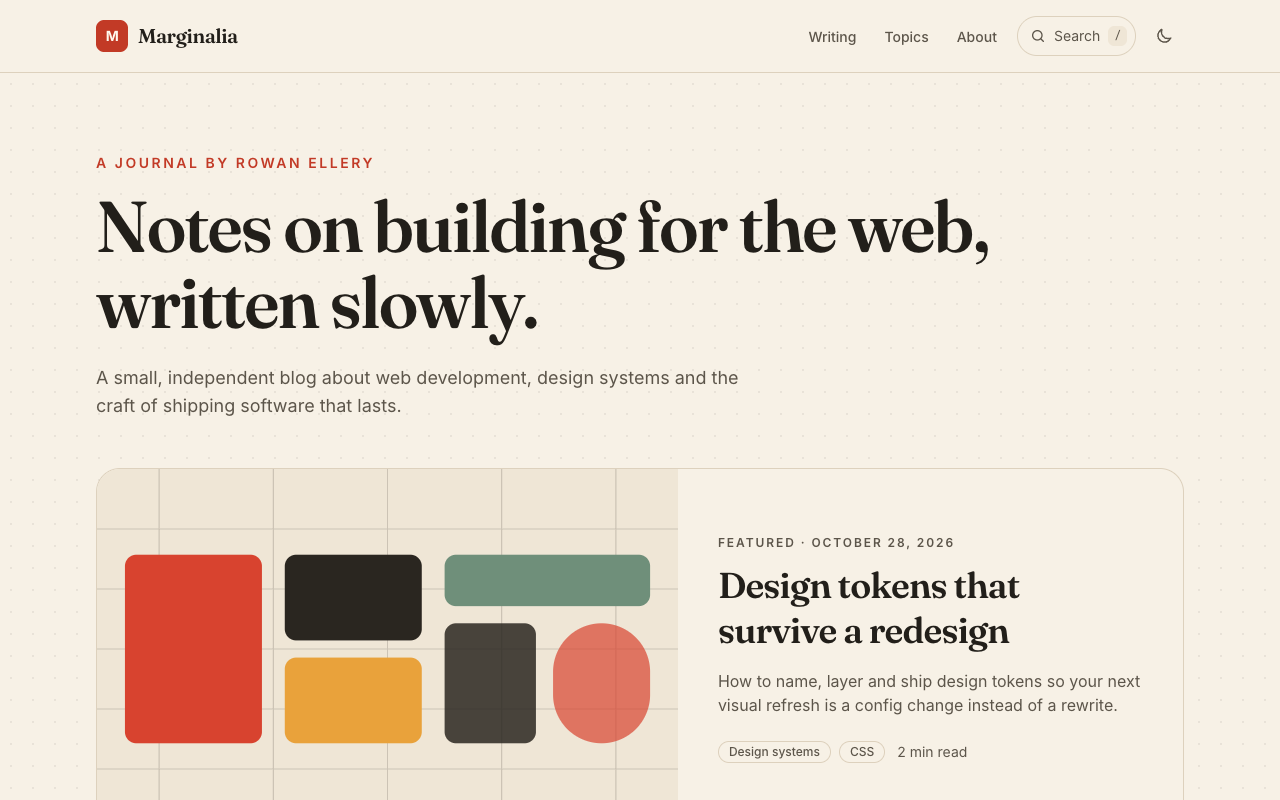
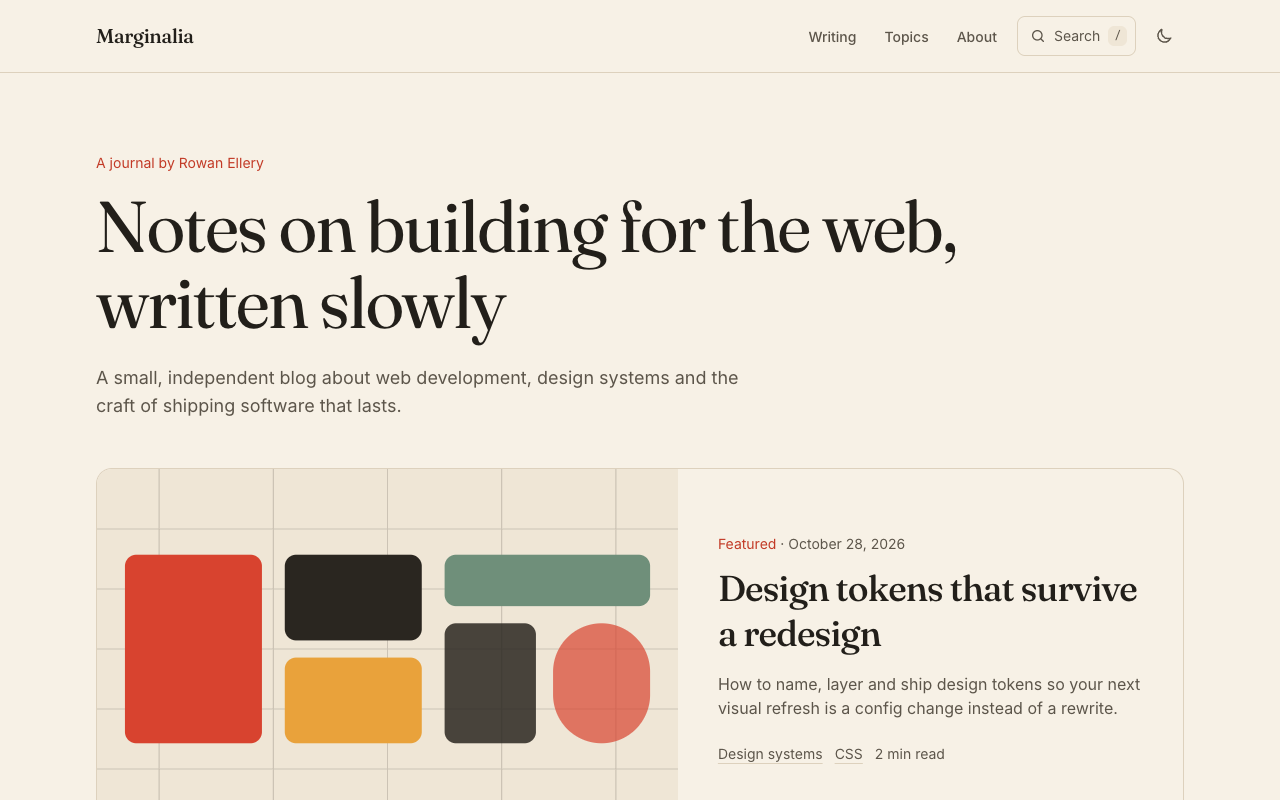
Unslop pass: no grain or pills, lighter headings, sentence case labels, tags as quiet links, left-set post header

diff --git a/app/page.tsx b/app/page.tsx
@@ -13,11 +13,11 @@ export default function Home() {
   const tags = getAllTags();
 
   return (
-    <div className="grain">
+    <div>
       <div className="mx-auto max-w-6xl px-5 sm:px-8">
         <section className="pb-12 pt-14 sm:pt-20">
-          <p className="text-sm font-semibold uppercase tracking-[0.18em] text-accent dark:text-ember">A journal by {site.author.name}</p>
-          <h1 className="mt-4 max-w-4xl font-display text-[2.6rem] font-semibold leading-[1.05] tracking-tight sm:text-6xl lg:text-7xl">
+          <p className="text-sm text-accent dark:text-ember">A journal by {site.author.name}</p>
+          <h1 className="mt-4 max-w-4xl font-display text-[2.6rem] font-normal leading-[1.05] tracking-[-0.025em] sm:text-6xl lg:text-7xl">
             {site.tagline}
           </h1>
           <p className="mt-6 max-w-2xl text-lg text-ink-soft dark:text-moon-soft">{site.description}</p>
@@ -28,7 +28,7 @@ export default function Home() {
             <h2 id="featured-title" className="sr-only">
               Featured post
             </h2>
-            <article className="group grid overflow-hidden rounded-3xl border border-rule bg-paper shadow-[0_1px_0_rgba(0,0,0,0.04)] md:grid-cols-[1.15fr_1fr] dark:border-night-rule dark:bg-night-2">
+            <article className="group grid overflow-hidden rounded-2xl border border-rule bg-paper shadow-[0_1px_0_rgba(0,0,0,0.04)] md:grid-cols-[1.15fr_1fr] dark:border-night-rule dark:bg-night-2">
               {featured.cover && (
                 <Link href={`/posts/${featured.slug}/`} className="relative block aspect-[1200/630] overflow-hidden md:aspect-auto md:min-h-[360px]" tabIndex={-1}>
                   <Image
@@ -37,25 +37,25 @@ export default function Home() {
                     fill
                     priority
                     sizes="(min-width: 768px) 55vw, 100vw"
-                    className="object-cover transition duration-500 group-hover:scale-[1.02]"
+                    className="object-cover"
                   />
                 </Link>
               )}
               <div className="flex flex-col justify-center p-7 sm:p-10">
-                <p className="text-xs font-semibold uppercase tracking-[0.16em] text-ink-soft dark:text-moon-soft">
-                  Featured &middot; <time dateTime={featured.date}>{formatDate(featured.date)}</time>
+                <p className="text-sm text-ink-soft dark:text-moon-soft">
+                  <span className="text-accent dark:text-ember">Featured</span> &middot; <time dateTime={featured.date}>{formatDate(featured.date)}</time>
                 </p>
-                <h3 className="mt-3 font-display text-3xl font-semibold leading-tight tracking-tight sm:text-4xl">
+                <h3 className="mt-3 font-display text-3xl font-medium leading-tight tracking-tight sm:text-4xl">
                   <Link href={`/posts/${featured.slug}/`} className="hover:text-accent dark:hover:text-ember">
                     {featured.title}
                   </Link>
                 </h3>
                 <p className="mt-4 text-ink-soft dark:text-moon-soft">{featured.description}</p>
-                <div className="mt-6 flex flex-wrap items-center gap-2">
+                <div className="mt-6 flex flex-wrap items-center gap-x-3 gap-y-1">
                   {featured.tags.map((t) => (
                     <Tag key={t} name={t} />
                   ))}
-                  <span className="ml-1 text-sm text-ink-soft dark:text-moon-soft">{featured.readingMinutes} min read</span>
+                  <span className="text-sm text-ink-soft dark:text-moon-soft">{featured.readingMinutes} min read</span>
                 </div>
               </div>
             </article>
@@ -64,17 +64,17 @@ export default function Home() {
 
         <div className="grid gap-14 lg:grid-cols-[1fr_260px]">
           <section aria-labelledby="recent-title">
-            <h2 id="recent-title" className="mb-6 font-display text-3xl font-semibold tracking-tight">
+            <h2 id="recent-title" className="mb-6 font-display text-3xl font-medium tracking-tight">
               Recent writing
             </h2>
             <PostList posts={recent} />
           </section>
           <aside className="space-y-10">
             <section aria-labelledby="topics-title">
-              <h2 id="topics-title" className="text-sm font-semibold uppercase tracking-[0.16em] text-ink-soft dark:text-moon-soft">
+              <h2 id="topics-title" className="text-sm text-ink-soft dark:text-moon-soft">
                 Topics
               </h2>
-              <div className="mt-4 flex flex-wrap gap-2">
+              <div className="mt-3 flex flex-wrap gap-x-3 gap-y-1">
                 {tags.map((t) => (
                   <Tag key={t.slug} name={t.name} />
                 ))}
@@ -85,9 +85,9 @@ export default function Home() {
                 About the author
               </h2>
               <Image src={site.author.avatar} alt={`Illustration representing ${site.author.name}`} width={56} height={56} className="rounded-full" />
-              <p className="mt-3 font-display text-lg font-semibold">{site.author.name}</p>
+              <p className="mt-3 font-display text-lg font-medium">{site.author.name}</p>
               <p className="text-sm text-ink-soft dark:text-moon-soft">{site.author.role}</p>
-              <Link href="/about/" className="mt-3 inline-block text-sm font-semibold text-accent dark:text-ember">
+              <Link href="/about/" className="mt-3 inline-block text-sm font-medium text-accent dark:text-ember">
                 More about me
               </Link>
             </section>

diff --git a/app/posts/[slug]/page.tsx b/app/posts/[slug]/page.tsx
@@ -64,13 +64,13 @@ export default async function PostPage({ params }: Props) {
   return (
     <article className="mx-auto max-w-6xl px-5 sm:px-8">
       <script type="application/ld+json" dangerouslySetInnerHTML={{ __html: JSON.stringify(jsonLd) }} />
-      <header className="mx-auto max-w-3xl pb-10 pt-14 text-center sm:pt-20">
+      <header className="mx-auto max-w-[68ch] pb-10 pt-14 text-lg sm:pt-20">
         <p className="text-sm text-ink-soft dark:text-moon-soft">
           <time dateTime={post.date}>{formatDate(post.date)}</time> &middot; {post.readingMinutes} min read
         </p>
-        <h1 className="mt-4 font-display text-4xl font-semibold leading-[1.1] tracking-tight sm:text-5xl lg:text-6xl">{post.title}</h1>
-        <p className="mx-auto mt-5 max-w-2xl text-lg text-ink-soft dark:text-moon-soft">{post.description}</p>
-        <div className="mt-6 flex flex-wrap justify-center gap-2">
+        <h1 className="mt-4 font-display text-4xl font-medium leading-[1.1] tracking-tight sm:text-5xl lg:text-6xl">{post.title}</h1>
+        <p className="mt-5 max-w-2xl text-lg text-ink-soft dark:text-moon-soft">{post.description}</p>
+        <div className="mt-6 flex flex-wrap gap-x-3 gap-y-1">
           {post.tags.map((t) => (
             <Tag key={t} name={t} />
           ))}
@@ -78,7 +78,7 @@ export default async function PostPage({ params }: Props) {
       </header>
 
       {post.cover && (
-        <div className="relative mx-auto aspect-[1200/630] max-w-5xl overflow-hidden rounded-3xl border border-rule dark:border-night-rule">
+        <div className="relative mx-auto aspect-[1200/630] max-w-5xl overflow-hidden rounded-2xl border border-rule dark:border-night-rule">
           <Image src={post.cover} alt={post.coverAlt ?? ""} fill priority sizes="(min-width: 1024px) 1024px, 100vw" className="object-cover" />
         </div>
       )}
@@ -89,17 +89,17 @@ export default async function PostPage({ params }: Props) {
         <AuthorCard />
         <nav aria-label="More posts" className="grid gap-4 sm:grid-cols-2">
           {older ? (
-            <Link href={`/posts/${older.slug}/`} className="rounded-2xl border border-rule p-5 transition hover:border-accent dark:border-night-rule dark:hover:border-ember">
-              <span className="text-xs font-semibold uppercase tracking-[0.16em] text-ink-soft dark:text-moon-soft">Older</span>
-              <span className="mt-1 block font-display text-lg font-semibold">{older.title}</span>
+            <Link href={`/posts/${older.slug}/`} className="rounded-2xl border border-rule p-5 transition-colors duration-150 hover:border-accent dark:border-night-rule dark:hover:border-ember">
+              <span className="text-xs font-medium text-ink-soft dark:text-moon-soft">Older</span>
+              <span className="mt-1 block font-display text-lg font-medium">{older.title}</span>
             </Link>
           ) : (
             <span />
           )}
           {newer && (
-            <Link href={`/posts/${newer.slug}/`} className="rounded-2xl border border-rule p-5 text-right transition hover:border-accent dark:border-night-rule dark:hover:border-ember">
-              <span className="text-xs font-semibold uppercase tracking-[0.16em] text-ink-soft dark:text-moon-soft">Newer</span>
-              <span className="mt-1 block font-display text-lg font-semibold">{newer.title}</span>
+            <Link href={`/posts/${newer.slug}/`} className="rounded-2xl border border-rule p-5 text-right transition-colors duration-150 hover:border-accent dark:border-night-rule dark:hover:border-ember">
+              <span className="text-xs font-medium text-ink-soft dark:text-moon-soft">Newer</span>
+              <span className="mt-1 block font-display text-lg font-medium">{newer.title}</span>
             </Link>
           )}
         </nav>

diff --git a/components/Newsletter.tsx b/components/Newsletter.tsx
@@ -26,10 +26,10 @@ export function Newsletter() {
   }
 
   return (
-    <section aria-labelledby="newsletter-title" className="rounded-3xl bg-ink px-6 py-10 text-paper sm:px-10 dark:bg-night-2 dark:text-moon">
+    <section aria-labelledby="newsletter-title" className="rounded-2xl bg-ink px-6 py-10 text-paper sm:px-10 dark:bg-night-2 dark:text-moon">
       <div className="grid gap-6 md:grid-cols-2 md:items-center">
         <div>
-          <h2 id="newsletter-title" className="font-display text-3xl font-semibold tracking-tight">
+          <h2 id="newsletter-title" className="font-display text-3xl font-medium tracking-tight">
             {site.newsletter.title}
           </h2>
           <p className="mt-2 text-paper/75 dark:text-moon-soft">{site.newsletter.text}</p>
@@ -50,12 +50,12 @@ export function Newsletter() {
                 type="email"
                 required
                 placeholder="you@example.com"
-                className="h-12 min-w-0 flex-1 rounded-full bg-paper px-5 text-ink placeholder:text-ink-soft/70"
+                className="h-12 min-w-0 flex-1 rounded-lg bg-paper px-5 text-ink placeholder:text-ink-soft/70"
               />
               <button
                 type="submit"
                 disabled={state === "sending"}
-                className="h-12 rounded-full bg-accent px-6 font-semibold text-accent-ink transition hover:brightness-110 disabled:opacity-60"
+                className="h-12 rounded-lg bg-accent px-6 font-medium text-accent-ink transition-colors duration-150 hover:brightness-110 disabled:opacity-60"
               >
                 {state === "sending" ? "Subscribing" : "Subscribe"}
               </button>
@@ -71,7 +71,7 @@ export function Newsletter() {
             <p>The sign-up form isn&apos;t connected yet. Until it is, you can ask to be added by email.</p>
             <a
               href={`mailto:${site.author.email}?subject=${encodeURIComponent("Add me to the newsletter")}`}
-              className="mt-4 inline-flex h-11 items-center rounded-full bg-accent px-5 font-semibold text-accent-ink transition hover:brightness-110"
+              className="mt-4 inline-flex h-11 items-center rounded-lg bg-accent px-5 font-medium text-accent-ink transition-colors duration-150 hover:brightness-110"
             >
               Email {site.author.name.split(" ")[0]}
             </a>

diff --git a/app/og/[slug]/route.tsx b/app/og/[slug]/route.tsx
@@ -20,8 +20,8 @@ export async function GET(_req: Request, { params }: { params: Promise<{ slug: s
     return new ImageResponse(
       (
         <div style={{ width: "100%", height: "100%", display: "flex", flexDirection: "column", justifyContent: "center", background: "#221f1a", padding: 80, color: "#f7f1e6" }}>
-          <div style={{ fontSize: 34, color: "#f0745d", fontWeight: 700 }}>{site.name}</div>
-          <div style={{ marginTop: 24, fontSize: 76, fontWeight: 700, lineHeight: 1.05, letterSpacing: -1 }}>{site.tagline}</div>
+          <div style={{ fontSize: 34, color: "#f0745d", fontWeight: 500 }}>{site.name}</div>
+          <div style={{ marginTop: 24, fontSize: 76, fontWeight: 500, lineHeight: 1.05, letterSpacing: -1 }}>{site.tagline}</div>
         </div>
       ),
       size,
@@ -31,13 +31,13 @@ export async function GET(_req: Request, { params }: { params: Promise<{ slug: s
   return new ImageResponse(
     (
       <div style={{ width: "100%", height: "100%", display: "flex", flexDirection: "column", justifyContent: "space-between", background: "#f7f1e6", padding: 72, color: "#221f1a" }}>
-        <div style={{ display: "flex", alignItems: "center", gap: 16, fontSize: 30, fontWeight: 700 }}>
+        <div style={{ display: "flex", alignItems: "center", gap: 16, fontSize: 30, fontWeight: 500 }}>
           <div style={{ width: 52, height: 52, borderRadius: 12, background: "#c23a26", color: "#fff8ee", display: "flex", alignItems: "center", justifyContent: "center" }}>
             {site.name.charAt(0)}
           </div>
           {site.name}
         </div>
-        <div style={{ fontSize: 68, fontWeight: 700, lineHeight: 1.08, letterSpacing: -1, maxWidth: 1000 }}>{post.title}</div>
+        <div style={{ fontSize: 68, fontWeight: 500, lineHeight: 1.08, letterSpacing: -1, maxWidth: 1000 }}>{post.title}</div>
         <div style={{ display: "flex", justifyContent: "space-between", fontSize: 26, color: "#5c554a" }}>
           <span>{site.author.name}</span>
           <span>{`${formatDate(post.date)}, ${post.readingMinutes} min read`}</span>

diff --git a/components/Header.tsx b/components/Header.tsx
@@ -7,10 +7,7 @@ export function Header({ searchItems }: { searchItems: SearchItem[] }) {
   return (
     <header className="border-b border-rule dark:border-night-rule">
       <div className="mx-auto flex max-w-6xl items-center justify-between gap-3 px-5 py-4 sm:px-8">
-        <Link href="/" className="flex items-center gap-2.5 font-display text-xl font-semibold tracking-tight">
-          <span className="grid size-8 place-items-center rounded-lg bg-accent font-sans text-sm font-bold text-accent-ink" aria-hidden="true">
-            {site.name.charAt(0)}
-          </span>
+        <Link href="/" className="font-display text-xl font-medium tracking-tight">
           {site.name}
         </Link>
         <nav aria-label="Main" className="flex items-center gap-1 sm:gap-2">
@@ -19,7 +16,7 @@ export function Header({ searchItems }: { searchItems: SearchItem[] }) {
               <li key={item.href}>
                 <Link
                   href={item.href}
-                  className="rounded-full px-3 py-2 text-sm font-medium text-ink-soft transition hover:text-ink dark:text-moon-soft dark:hover:text-moon"
+                  className="rounded-lg px-3 py-2 text-sm font-medium text-ink-soft transition-colors duration-150 hover:text-ink dark:text-moon-soft dark:hover:text-moon"
                 >
                   {item.label}
                 </Link>
@@ -34,7 +31,7 @@ export function Header({ searchItems }: { searchItems: SearchItem[] }) {
         <ul className="flex justify-center gap-1 px-4 py-1.5">
           {site.nav.map((item) => (
             <li key={item.href}>
-              <Link href={item.href} className="block rounded-full px-3 py-1.5 text-sm font-medium text-ink-soft dark:text-moon-soft">
+              <Link href={item.href} className="block rounded-lg px-3 py-1.5 text-sm font-medium text-ink-soft dark:text-moon-soft">
                 {item.label}
               </Link>
             </li>

diff --git a/components/Search.tsx b/components/Search.tsx
@@ -54,7 +54,7 @@ export function Search({ items }: { items: SearchItem[] }) {
       <button
         type="button"
         onClick={open}
-        className="flex h-10 items-center gap-2 rounded-full border border-rule px-3 text-sm text-ink-soft transition hover:border-ink-soft hover:text-ink sm:pr-2 dark:border-night-rule dark:text-moon-soft dark:hover:text-moon"
+        className="flex h-10 items-center gap-2 rounded-lg border border-rule px-3 text-sm text-ink-soft transition-colors duration-150 hover:border-ink-soft hover:text-ink sm:pr-2 dark:border-night-rule dark:text-moon-soft dark:hover:text-moon"
         aria-label="Search posts"
       >
         <svg className="size-4" viewBox="0 0 24 24" fill="none" stroke="currentColor" strokeWidth="2" aria-hidden="true">
@@ -102,9 +102,9 @@ export function Search({ items }: { items: SearchItem[] }) {
               <Link
                 href={`/posts/${item.slug}/`}
                 onClick={close}
-                className="block rounded-xl px-3 py-3 transition hover:bg-paper-2 focus-visible:bg-paper-2 dark:hover:bg-night dark:focus-visible:bg-night"
+                className="block rounded-xl px-3 py-3 transition-colors duration-150 hover:bg-paper-2 focus-visible:bg-paper-2 dark:hover:bg-night dark:focus-visible:bg-night"
               >
-                <span className="block font-display text-lg font-semibold leading-snug">{item.title}</span>
+                <span className="block font-display text-lg font-medium leading-snug">{item.title}</span>
                 <span className="mt-1 block text-xs text-ink-soft dark:text-moon-soft">
                   {item.date} &middot; {item.tags.join(", ")}
                 </span>

diff --git a/app/about/page.tsx b/app/about/page.tsx
@@ -15,8 +15,8 @@ export default function AboutPage() {
       <div className="grid gap-10 md:grid-cols-[220px_1fr] md:gap-16">
         <Image src={site.author.avatar} alt={`Illustration representing ${site.author.name}`} width={220} height={220} className="w-40 rounded-full md:w-full" priority />
         <div>
-          <p className="text-sm font-semibold uppercase tracking-[0.18em] text-accent dark:text-ember">About</p>
-          <h1 className="mt-3 font-display text-5xl font-semibold tracking-tight sm:text-6xl">Hi, I&apos;m {site.author.name.split(" ")[0]}.</h1>
+          <p className="text-sm text-accent dark:text-ember">About</p>
+          <h1 className="mt-3 font-display text-5xl font-medium tracking-tight sm:text-6xl">{site.author.name}</h1>
           <p className="mt-3 text-ink-soft dark:text-moon-soft">
             {site.author.role}, based in {site.author.location}.
           </p>
@@ -28,7 +28,7 @@ export default function AboutPage() {
           <ul className="mt-8 flex flex-wrap gap-3">
             {site.author.links.map((l) => (
               <li key={l.label}>
-                <a href={l.href} className="inline-flex h-10 items-center rounded-full border border-rule px-4 text-sm font-semibold transition hover:border-accent hover:text-accent dark:border-night-rule dark:hover:border-ember dark:hover:text-ember">
+                <a href={l.href} className="inline-flex h-10 items-center rounded-lg border border-rule px-4 text-sm font-medium transition-colors duration-150 hover:border-accent hover:text-accent dark:border-night-rule dark:hover:border-ember dark:hover:text-ember">
                   {l.label}
                 </a>
               </li>

diff --git a/components/AuthorCard.tsx b/components/AuthorCard.tsx
@@ -3,15 +3,15 @@ import { site } from "@/content/site";
 
 export function AuthorCard() {
   return (
-    <section aria-labelledby="author-card-title" className="flex flex-col gap-5 rounded-3xl border border-rule bg-paper-2/60 p-6 sm:flex-row sm:p-8 dark:border-night-rule dark:bg-night-2">
+    <section aria-labelledby="author-card-title" className="flex flex-col gap-5 rounded-2xl border border-rule bg-paper-2/60 p-6 sm:flex-row sm:p-8 dark:border-night-rule dark:bg-night-2">
       <Image src={site.author.avatar} alt={`Illustration representing ${site.author.name}`} width={72} height={72} className="size-18 shrink-0 rounded-full" />
       <div>
-        <p className="text-xs font-semibold uppercase tracking-[0.16em] text-ink-soft dark:text-moon-soft">Written by</p>
-        <h2 id="author-card-title" className="mt-1 font-display text-2xl font-semibold">
+        <p className="text-xs font-medium text-ink-soft dark:text-moon-soft">Written by</p>
+        <h2 id="author-card-title" className="mt-1 font-display text-2xl font-medium">
           {site.author.name}
         </h2>
         <p className="mt-2 text-ink-soft dark:text-moon-soft">{site.author.bio[0]}</p>
-        <ul className="mt-4 flex flex-wrap gap-4 text-sm font-semibold">
+        <ul className="mt-4 flex flex-wrap gap-4 text-sm font-medium">
           {site.author.links.map((l) => (
             <li key={l.label}>
               <a href={l.href} className="text-accent hover:underline dark:text-ember">

diff --git a/app/tags/page.tsx b/app/tags/page.tsx
@@ -12,16 +12,16 @@ export default function TagsPage() {
   const tags = getAllTags();
   return (
     <div className="mx-auto max-w-6xl px-5 pt-14 sm:px-8 sm:pt-20">
-      <h1 className="font-display text-5xl font-semibold tracking-tight sm:text-6xl">Topics</h1>
+      <h1 className="font-display text-5xl font-medium tracking-tight sm:text-6xl">Topics</h1>
       <p className="mt-4 text-lg text-ink-soft dark:text-moon-soft">Every subject I&apos;ve written about, with the number of posts in each.</p>
       <ul className="mt-12 grid gap-4 sm:grid-cols-2 lg:grid-cols-3">
         {tags.map((t) => (
           <li key={t.slug}>
             <Link
               href={`/tags/${t.slug}/`}
-              className="flex items-baseline justify-between rounded-2xl border border-rule p-6 transition hover:border-accent dark:border-night-rule dark:hover:border-ember"
+              className="flex items-baseline justify-between rounded-2xl border border-rule p-6 transition-colors duration-150 hover:border-accent dark:border-night-rule dark:hover:border-ember"
             >
-              <span className="font-display text-2xl font-semibold">{t.name}</span>
+              <span className="font-display text-2xl font-medium">{t.name}</span>
               <span className="text-sm text-ink-soft dark:text-moon-soft">
                 {t.count} {t.count === 1 ? "post" : "posts"}
               </span>

diff --git a/app/globals.css b/app/globals.css
@@ -61,15 +61,6 @@ body {
   }
 }
 
-/* Paper grain made with CSS only */
-.grain {
-  background-image: radial-gradient(color-mix(in oklab, var(--color-ink) 7%, transparent) 1px, transparent 1px);
-  background-size: 22px 22px;
-}
-.dark .grain {
-  background-image: radial-gradient(color-mix(in oklab, var(--color-moon) 6%, transparent) 1px, transparent 1px);
-}
-
 /* Article typography */
 .prose {
   font-size: 1.125rem;
@@ -82,14 +73,14 @@ body {
   font-family: var(--font-display);
   font-size: 1.75rem;
   line-height: 1.25;
-  font-weight: 600;
+  font-weight: 500;
   margin-top: 2.2em;
   letter-spacing: -0.01em;
 }
 .prose h3 {
   font-family: var(--font-display);
   font-size: 1.35rem;
-  font-weight: 600;
+  font-weight: 500;
   margin-top: 1.8em;
 }
 .prose a {
@@ -102,7 +93,7 @@ body {
   color: var(--color-ember);
 }
 .prose strong {
-  font-weight: 650;
+  font-weight: 600;
 }
 .prose ul,
 .prose ol {
@@ -125,7 +116,6 @@ body {
   padding: 0.25em 0 0.25em 1.1em;
   font-family: var(--font-display);
   font-size: 1.3rem;
-  font-style: italic;
   line-height: 1.5;
 }
 .prose table {

diff --git a/app/not-found.tsx b/app/not-found.tsx
@@ -3,10 +3,10 @@ import Link from "next/link";
 export default function NotFound() {
   return (
     <div className="mx-auto max-w-3xl px-5 py-28 text-center sm:px-8">
-      <p className="font-display text-7xl font-semibold text-accent dark:text-ember">404</p>
-      <h1 className="mt-4 font-display text-3xl font-semibold">This page wandered off</h1>
+      <p className="font-display text-7xl font-normal text-accent dark:text-ember">404</p>
+      <h1 className="mt-4 font-display text-3xl font-medium">This page wandered off</h1>
       <p className="mt-3 text-ink-soft dark:text-moon-soft">The link may be old, or the post may have moved.</p>
-      <Link href="/" className="mt-8 inline-flex h-11 items-center rounded-full bg-accent px-6 font-semibold text-accent-ink">
+      <Link href="/" className="mt-8 inline-flex h-11 items-center rounded-lg bg-accent px-6 font-medium text-accent-ink">
         Back to all writing
       </Link>
     </div>

diff --git a/components/CodeBlock.tsx b/components/CodeBlock.tsx
@@ -23,7 +23,7 @@ export function CodeBlock(props: ComponentProps<"pre">) {
       <button
         type="button"
         onClick={copy}
-        className="absolute right-2.5 top-2.5 rounded-md border border-rule bg-paper/90 px-2.5 py-1 font-sans text-xs font-medium text-ink-soft opacity-100 transition hover:text-ink sm:opacity-0 sm:group-hover:opacity-100 sm:focus-visible:opacity-100 dark:border-night-rule dark:bg-night-2/90 dark:text-moon-soft dark:hover:text-moon"
+        className="absolute right-2.5 top-2.5 rounded-md border border-rule bg-paper/90 px-2.5 py-1 font-sans text-xs font-medium text-ink-soft opacity-100 transition-colors duration-150 hover:text-ink sm:opacity-0 sm:group-hover:opacity-100 sm:focus-visible:opacity-100 dark:border-night-rule dark:bg-night-2/90 dark:text-moon-soft dark:hover:text-moon"
         aria-label={copied ? "Code copied" : "Copy code"}
       >
         {copied ? "Copied" : "Copy"}
